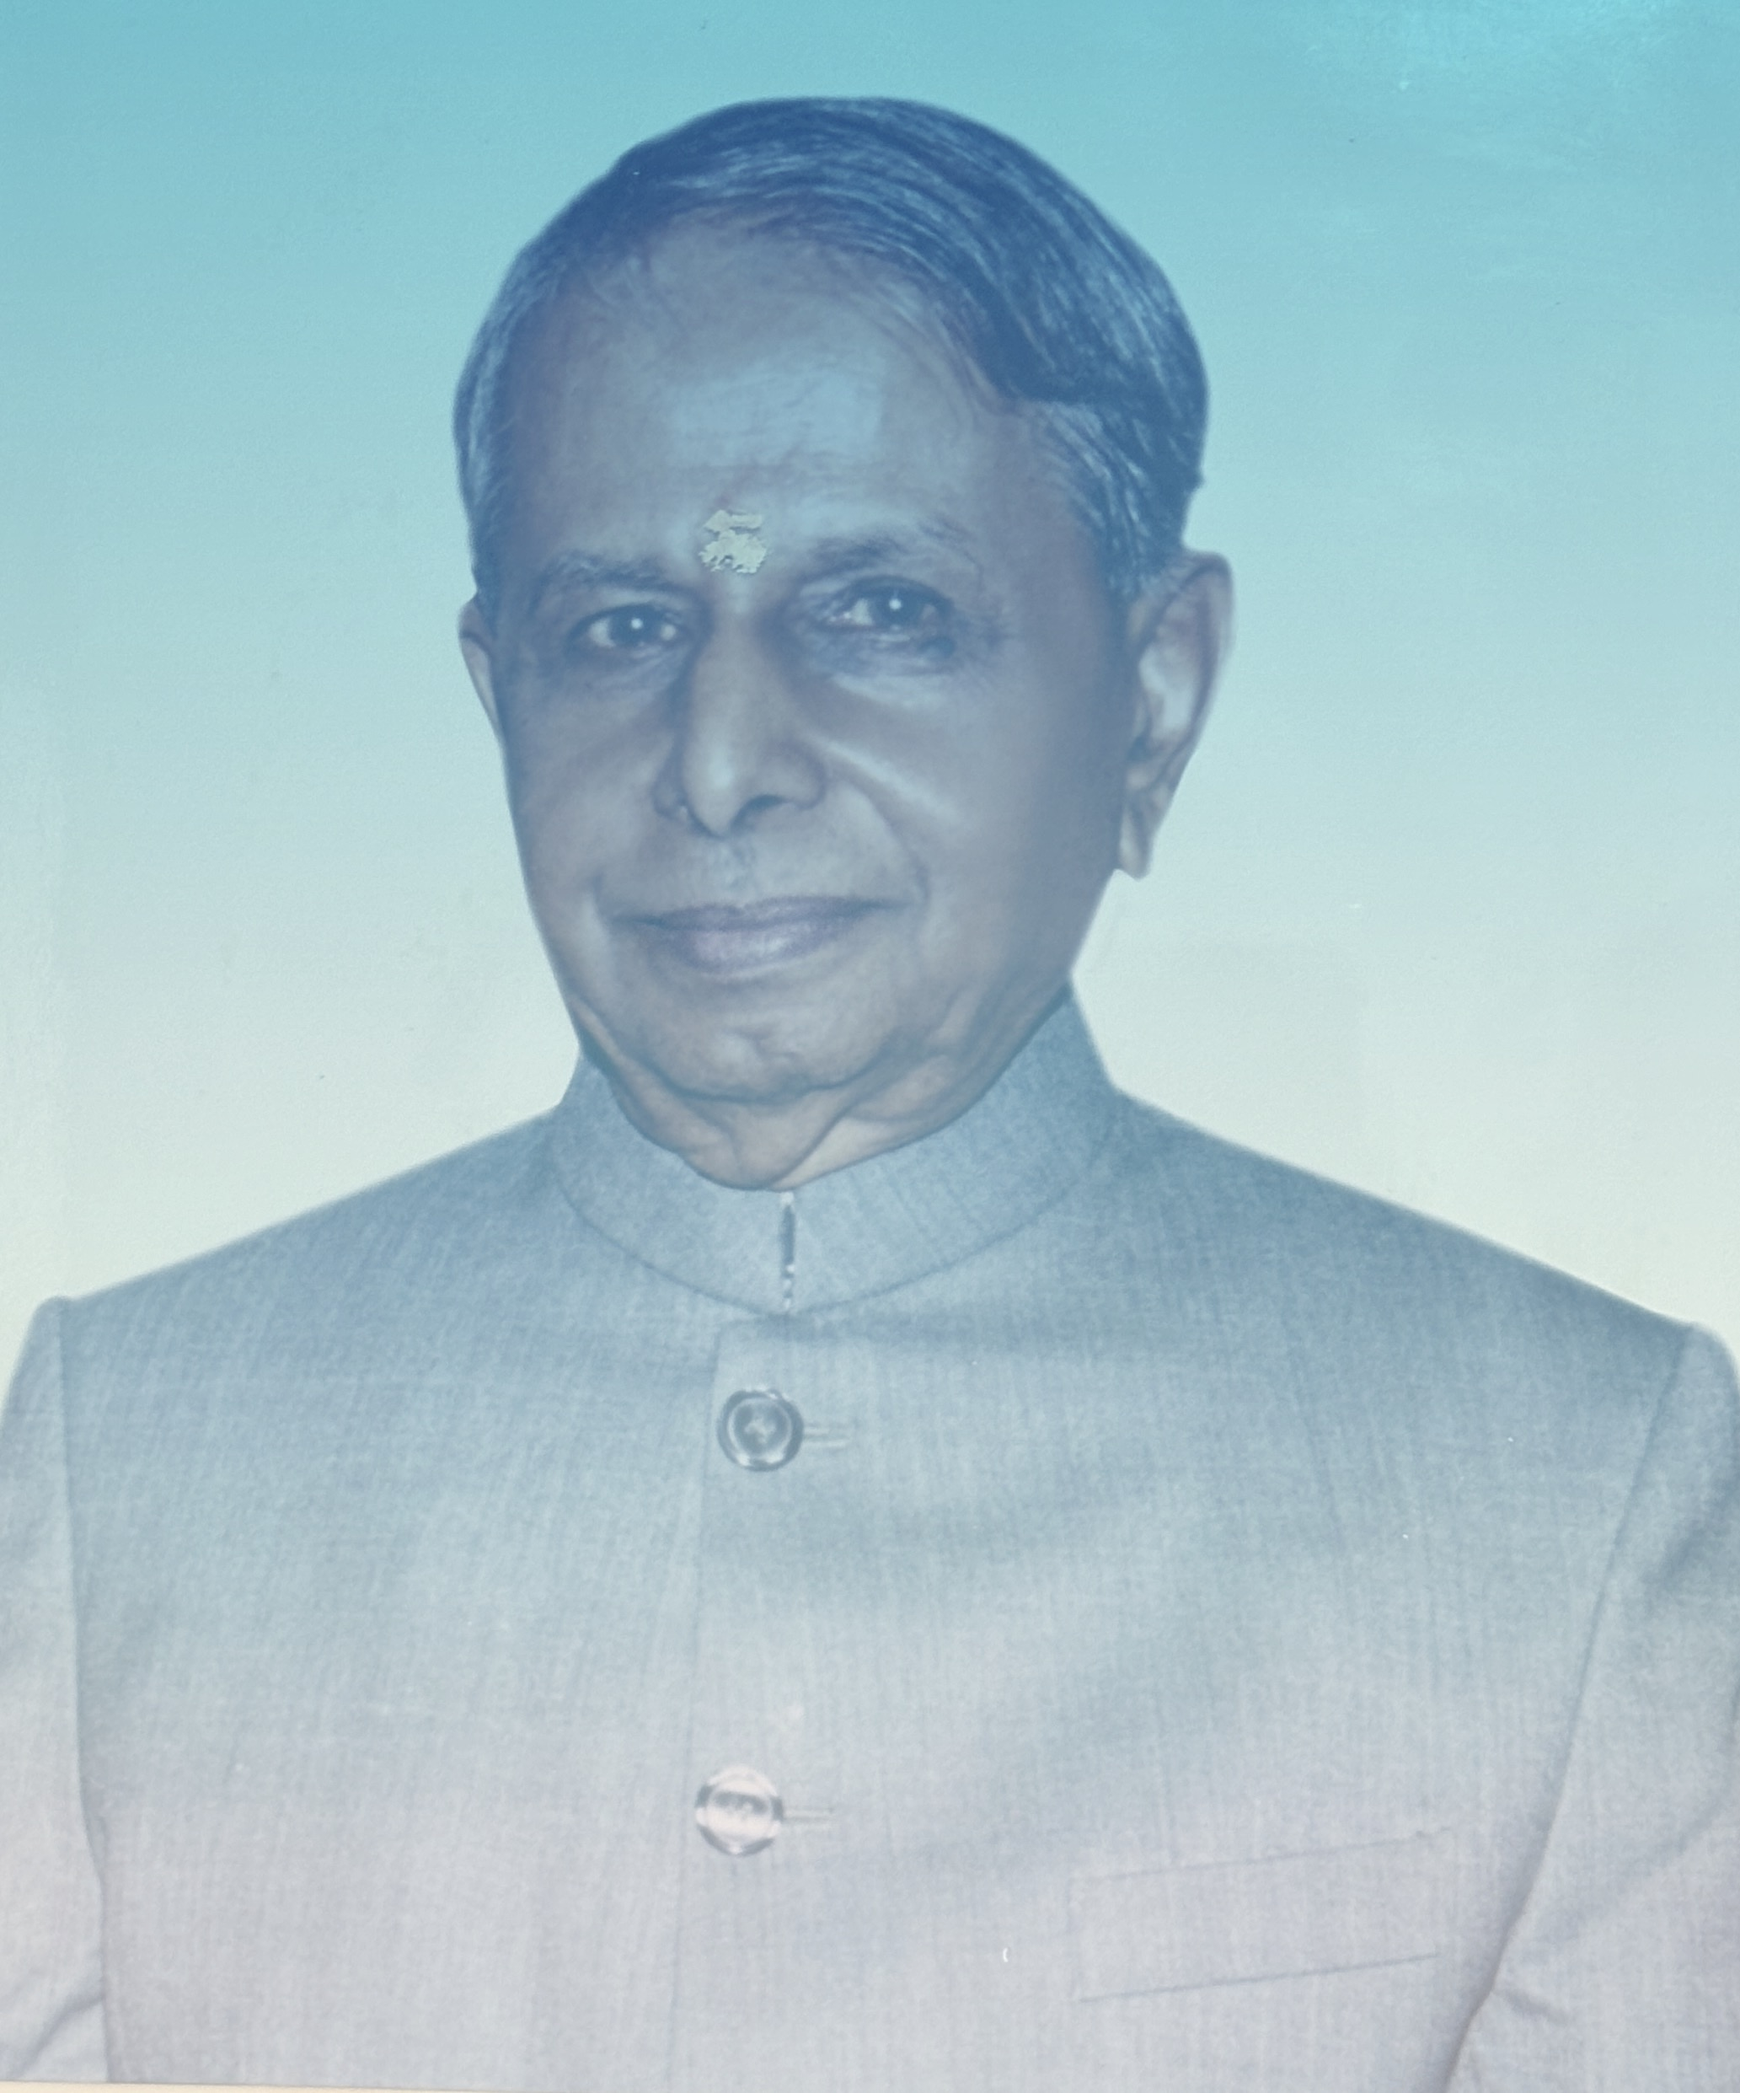
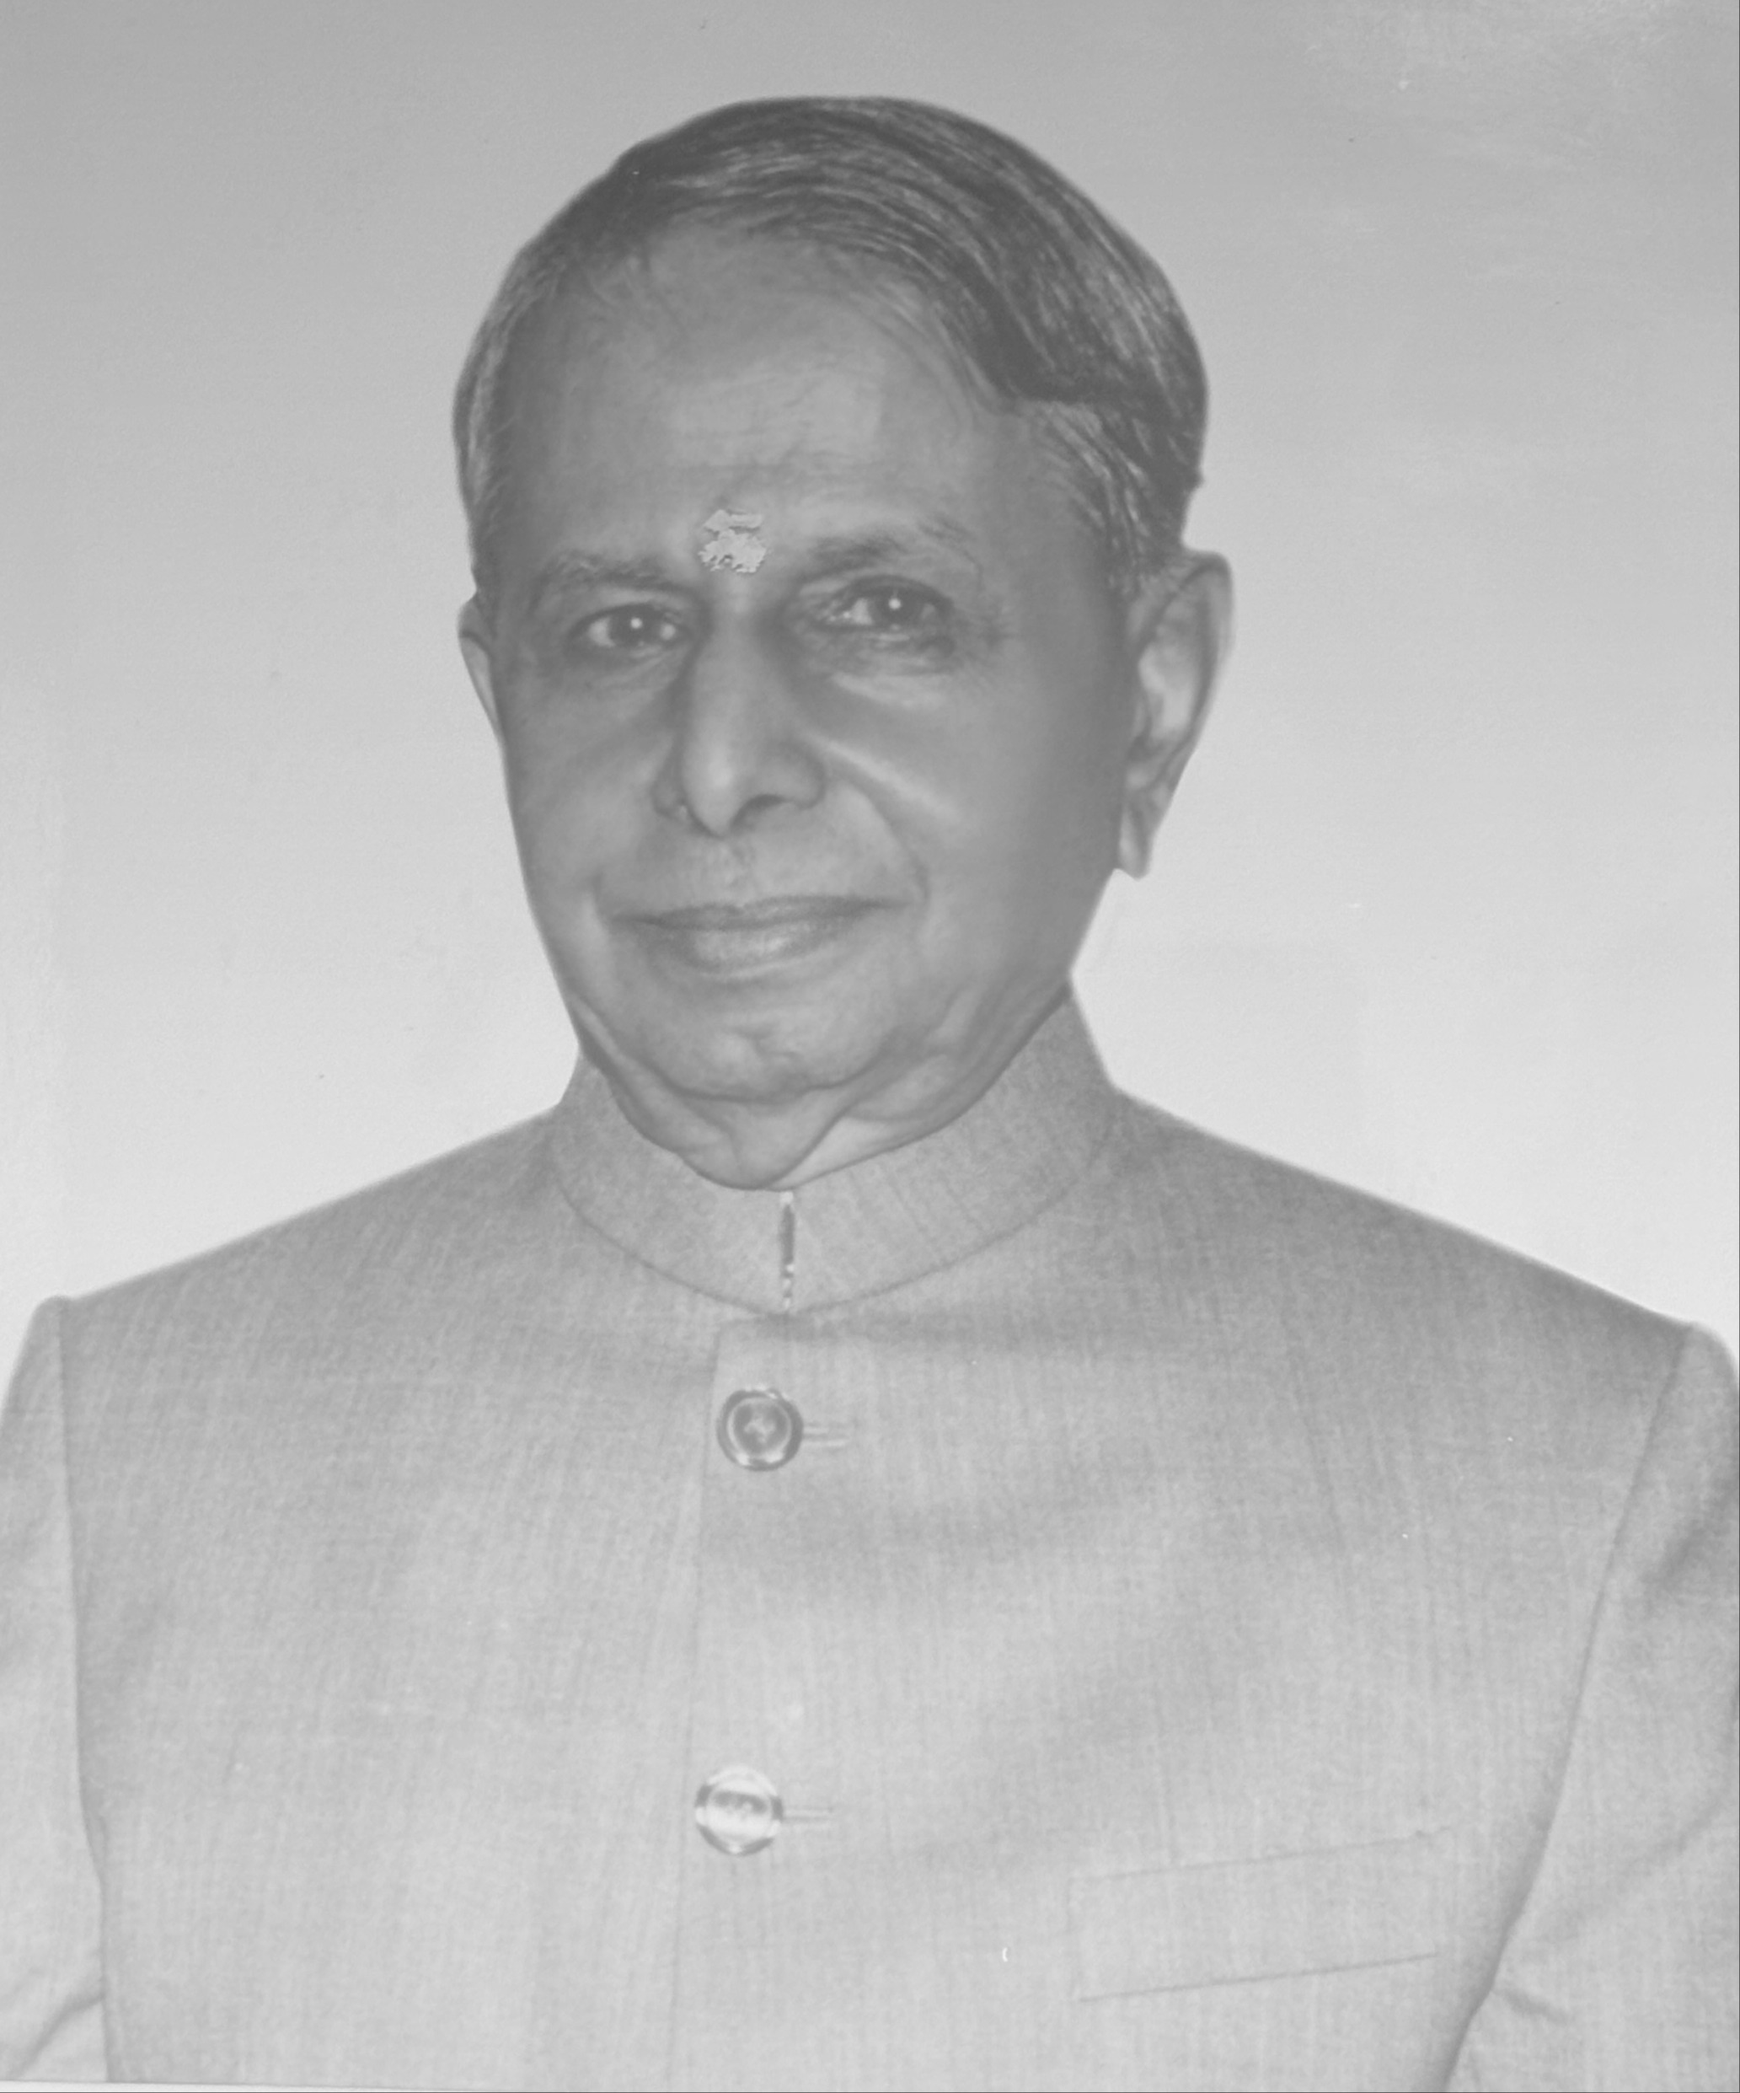
change founder img to bw

diff --git a/index.html b/index.html
@@ -98,13 +98,33 @@
     </section>
 
     <section id="about" class="z-10 py-32 bg-blue-50 mx-6 rounded-xl px-4 md:px-0 mt-12">
-        <div class="md:flex items-center justify-center md:space-x-6">
-            <img src="images/about_Mesa de trabajo 1.svg" class="max-w-xl p-4 md:p-0" alt="">
+        <div class="md:flex items-center justify-center md:space-x-12">
+            <img src="images/founder.JPEG" class="block md:hidden md:max-w-md rounded-xl" alt="">
             <div class="">
                 <div class="">
                     <p class="font-bold text-3xl md:text-5xl text-center md:text-left">About us</p>
                     <div class="w-12 h-2 bg-blue-600 mt-8 mx-auto md:mx-0"></div>
                 </div>
+                <div class="max-w-lg mt-12 space-y-6 text-justify">
+                    <p> Established under the esteemed guidance of Sri Suryanarayana Rao in 1966, our firm has since
+                        navigated nearly six decades of dynamic evolution and growth.</p>
+
+                    <p> Throughout our illustrious history, we have embraced challenges not as obstacles, but as
+                        opportunities for growth and innovation. We firmly believe in the power of solutions to drive
+                        progress, recognizing them as the bedrock upon which our success is built.</p>
+
+                    <p> At Rao Associates, excellence is not merely a goal, but a commitment ingrained in every facet of
+                        our
+                        operations. Our journey is characterized by an unwavering pursuit of success, driven by a
+                        fervent
+                        desire to deliver unmatched value to our clients and stakeholders.</p>
+                </div>
+            </div><img src="images/founder.JPEG" class="md:block hidden md:max-w-md rounded-xl" alt="">
+        </div>
+        <div class="md:flex items-center justify-center md:space-x-6  mt-20">
+            <img src="images/about_Mesa de trabajo 1.svg" class="max-w-xl p-4 md:p-0" alt="">
+            <div class="">
+
                 <div class="max-w-lg mt-12 space-y-6 text-justify">
                     <p> At Rao Associates., our vision isn't just a dream; it's a roadmap we actively navigate. We don't
                         work for our clients; we work with them, hand in hand, fostering an environment where their
@@ -123,26 +143,7 @@
             </div>
         </div>
 
-        <div class="md:flex items-center justify-center md:space-x-12 mt-32">
-            <img src="images/founder.JPEG" class="block md:hidden md:max-w-md rounded-xl" alt="">
-            <div class="">
 
-                <div class="max-w-lg mt-12 space-y-6 text-justify">
-                    <p> Established under the esteemed guidance of Sri Suryanarayana Rao in 1966, our firm has since
-                        navigated nearly six decades of dynamic evolution and growth.</p>
-
-                    <p> Throughout our illustrious history, we have embraced challenges not as obstacles, but as
-                        opportunities for growth and innovation. We firmly believe in the power of solutions to drive
-                        progress, recognizing them as the bedrock upon which our success is built.</p>
-
-                    <p> At Rao Associates, excellence is not merely a goal, but a commitment ingrained in every facet of
-                        our
-                        operations. Our journey is characterized by an unwavering pursuit of success, driven by a
-                        fervent
-                        desire to deliver unmatched value to our clients and stakeholders.</p>
-                </div>
-            </div><img src="images/founder.JPEG" class="md:block hidden md:max-w-md rounded-xl" alt="">
-        </div>
     </section>
 
 
